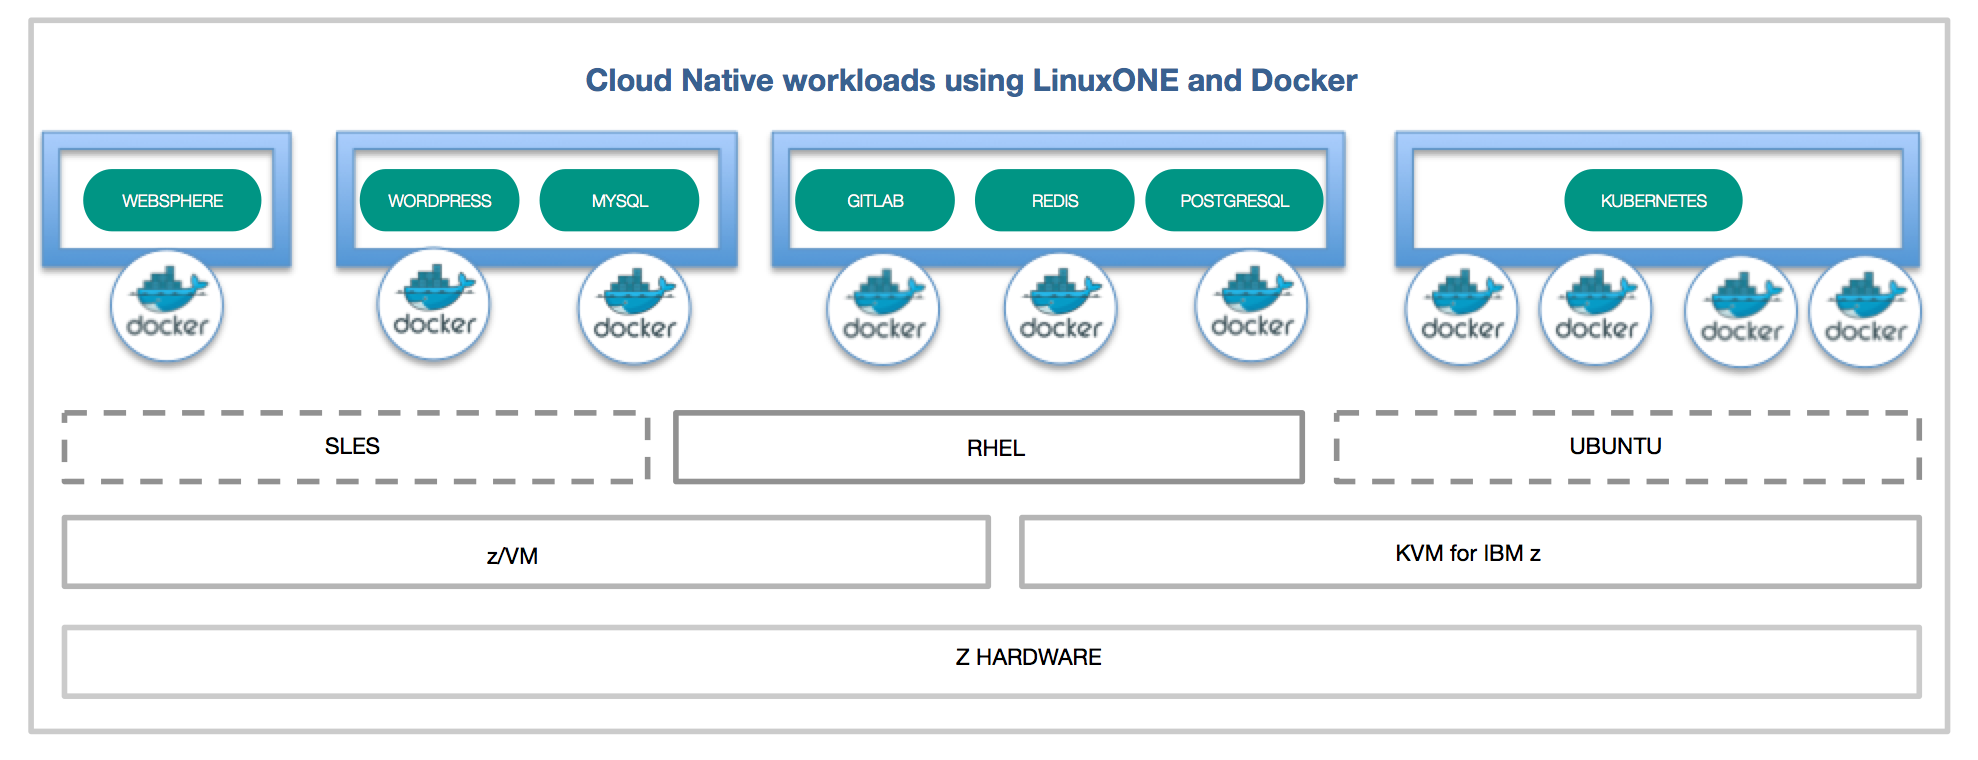
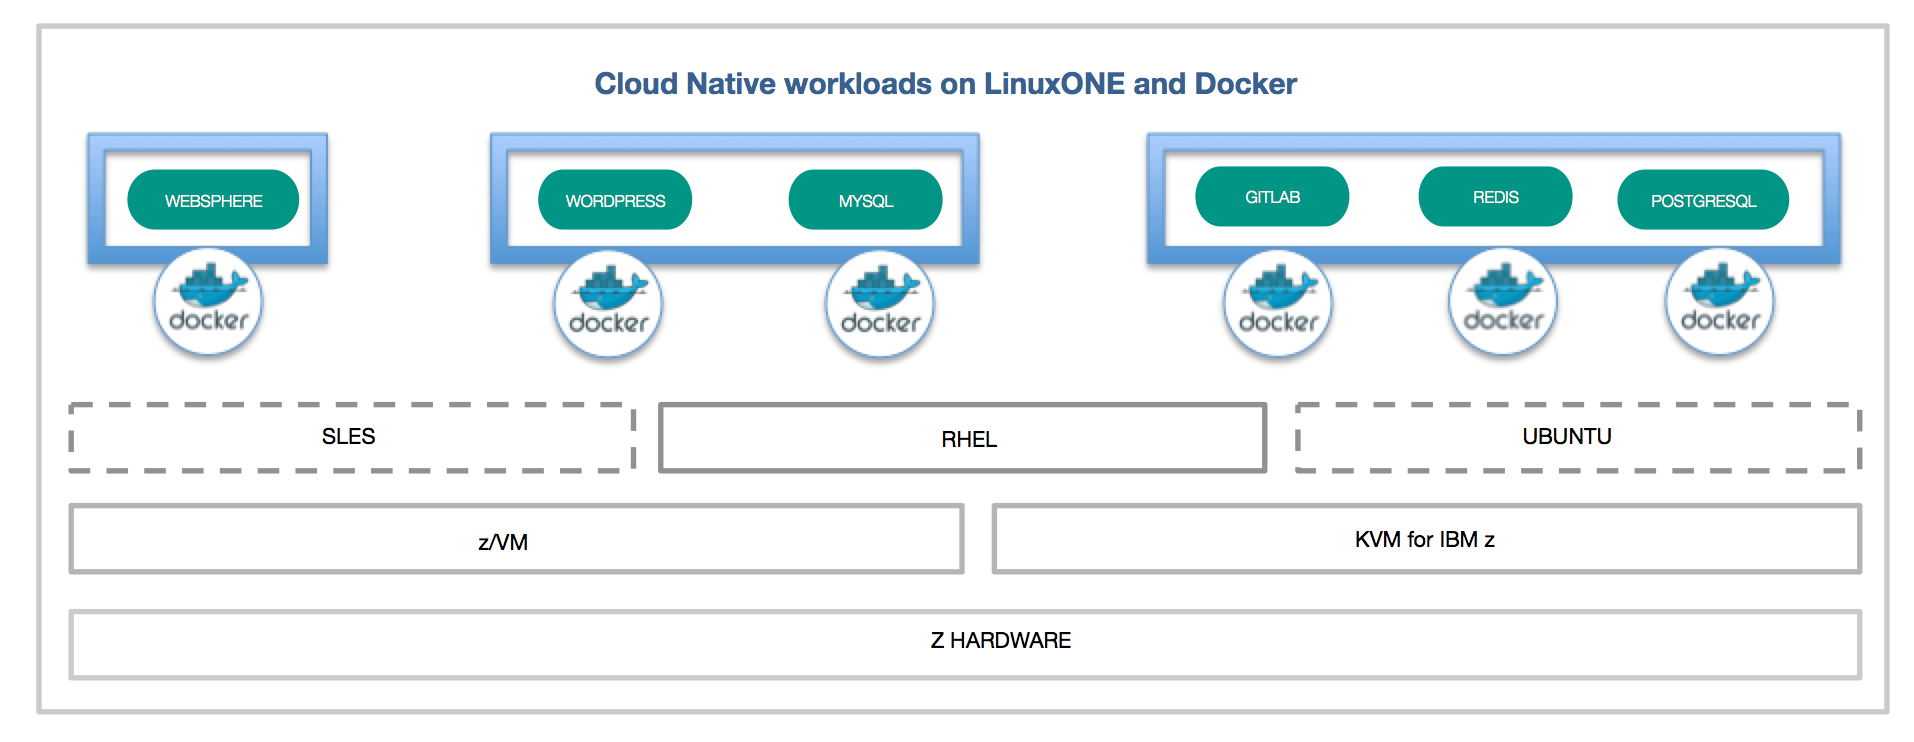
arch diag and removing kubernetes reference (#18)
* new arch diag

* Update README.md

* Update README.md

diff --git a/README.md b/README.md
@@ -3,7 +3,6 @@
 Open source software has expanded from a low-cost alternative to a platform for enterprise databases, clouds and next-generation apps. These workloads need higher levels of scalability, security and availability from the underlying hardware infrastructure.
 
 LinuxONE was built for open source so you can harness the agility of the open revolution on the industry’s most secure, scalable and high-performing Linux server. In this journey we will show how to run open source Cloud-Native workloads on LinuxONE using Docker. We will show how existing LinuxONE docker images from docker hub can be used as is for deploying open source workloads. If the desired images don`t exist, we also show how you can create your own dokcer images for the workload.
-In addition, we also show how to launch a container orechestration platform like Kubernetes, which can then be used to host your container based workloads.
 
 ![linuxonedocker](images/linuxone-docker.png)
 
@@ -14,8 +13,6 @@ In addition, we also show how to launch a container orechestration platform like
 1.2 [WebSphere Liberty](#2-install-and-run-websphere-liberty)  
 2. [Scenario Two: Create your own Docker images for LinuxONE](#scenario-two-create-your-own-docker-images-for-linuxone)  
 2.1 [GitLab](#1-install-and-run-gitlab)  
-3. [Scenario Three: Use container orchestrator on LinuxONE to run your cloud-native workloads](#scenario-three-use-container-orechestrator-on-linuxone-to-run-your-cloud-native-workloads)  
-3.1 [Kubernetes](#1-install-and-run-kubernetes)
 
 ## Included Components
 
@@ -24,7 +21,6 @@ In addition, we also show how to launch a container orechestration platform like
 - [WordPress](https://workpress.com)
 - [GitLab](https://about.gitlab.com/)
 - [WebSphere Liberty](https://hub.docker.com/r/s390x/websphere-liberty/)
-- [Kubernetes](https://kubernetes.io/)
 
 ## Prerequisites
 
@@ -125,85 +121,4 @@ GitLab is famous for its Git-based and code-tracking tool. GitLab represents a t
 
 By using different GitLab components (NGINX, Ruby on Rails, Redis, PostgreSQL, and more), you can deploy it to LinuxONE. Please follow the instructions [here](https://github.com/IBM/Kubernetes-container-service-GitLab-sample/blob/master/docs/deploy-with-docker-on-linuxone.md
 ) to get it up and running 
-
-## Scenario Three: Use container orechestrator on LinuxONE to run your cloud-native workloads
-
-### 1. Install and run Kubernetes
-
-To begin with, we will set up a Kubernetes cluster.  A cluster requires a number of containers, namely: an `apiserver`, a `scheduler`, a `controller` and a `proxy` service.  We will start these individually.
-
-#### 1. Start the etcd service
-```text
-docker run -d \
---net=host \
---name=etcd \
-brunswickheads/kubernetes-s390x etcd --addr=127.0.0.1:4001 --bind-addr=0.0.0.0:4001 --data-dir=/var/etcd/data
-```
-
-#### 2. Start kubelet service
-```text
-docker run \
---volume=/:/rootfs:ro \
---volume=/sys:/sys:ro \
---volume=/var/lib/docker/:/var/lib/docker:ro \
---volume=/var/data/kubelet:/var/data/kubelet/:rw \
---volume=/var/run:/var/run:rw \
---net=host \
---privileged=true \
--d \
---name=kubelet \
-brunswickheads/kubernetes-s390x:latest \
-hyperkube kubelet --containerized --root-dir=/var/data/kubelet --hostname-override="127.0.0.1" --address="0.0.0.0" --api-servers=http://localhost:8080 --config=/etc/kubernetes/manifests
-```
-
-#### 3. Start apiserver service
-```text
-docker run \
---volume=/:/rootfs:ro \
---volume=/sys:/sys:ro \
---volume=/var/lib/docker/:/var/lib/docker:ro \
---volume=/var/data/kubelet:/var/data/kubelet/:rw \
---volume=/var/run:/var/run:rw \
---net=host \
---privileged=true \
--d \
---name=apiserver \
-brunswickheads/kubernetes-s390x:latest \
-hyperkube apiserver --portal_net=10.0.0.1/24 --address=0.0.0.0 --insecure-bind-address=0.0.0.0 --etcd_servers=http://127.0.0.1:4001 --cluster_name=kubernetes --v=2
-```
-
-#### 4. Start controller service
-```text
-docker run \
--d \
---net=host \
--v /var/run/docker.sock:/var/run/docker.sock \
---name=controller \
-brunswickheads/kubernetes-s390x:latest hyperkube controller-manager --master=127.0.0.1:8080 --v=2
-```
-
-#### 5. Start scheduler service
-```text
-docker run \
--d \
---net=host \
--v /var/run/docker.sock:/var/run/docker.sock \
---name=scheduler \
-brunswickheads/kubernetes-s390x:latest hyperkube scheduler --master=127.0.0.1:8080 --v=2
-```
-
-#### 6. Start proxy service
-```text
-docker run \
--d \
---net=host \
---privileged \
---name=proxy \
-brunswickheads/kubernetes-s390x:latest hyperkube proxy --master=http://127.0.0.1:8080 --v=2
-```
-
-#### 7. Create a pause imaging by adding a tag to the kubernetes image:
-```text
-docker tag <k8s_image_name>:latest gcr.io/google_containers/pause:0.8.0
-```
 
